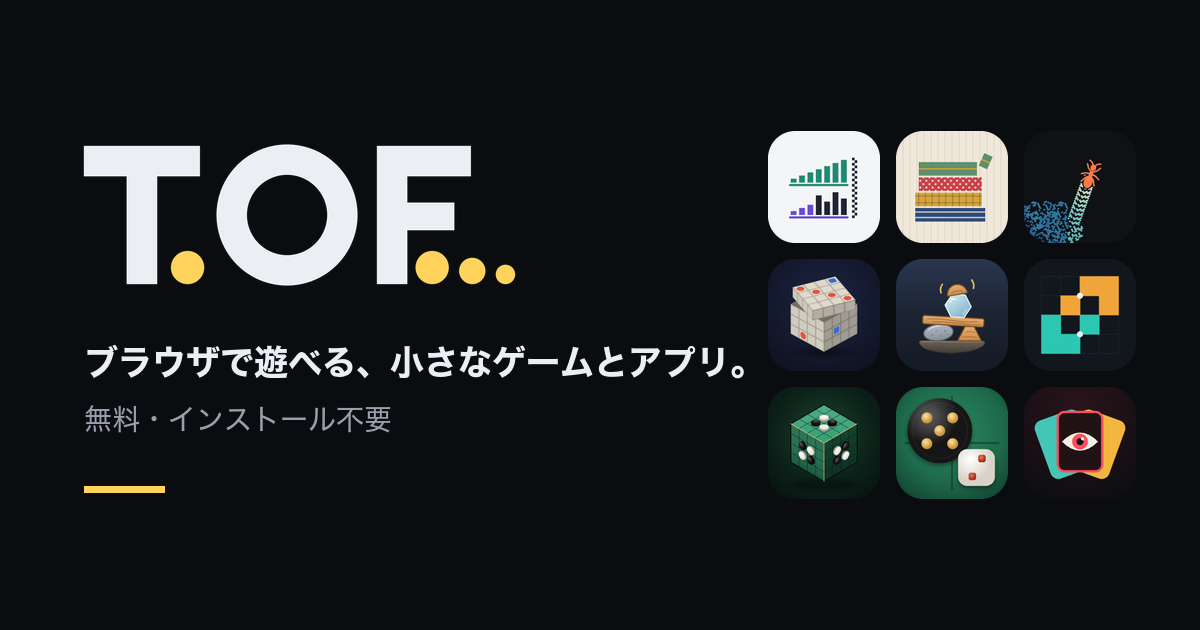
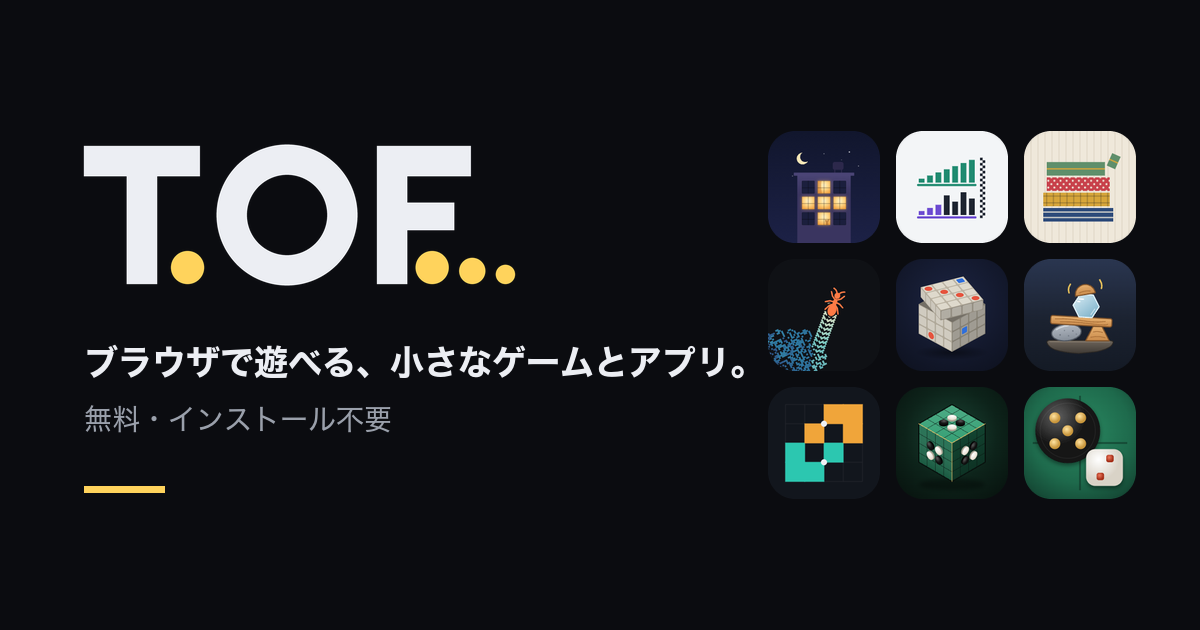
まどあかりをポータルに載せる

Changed region(s): [[0.6167, 0.181, 0.9558, 0.6032], [0.6475, 0.6032, 0.9558, 0.8143]]

diff --git a/apps.js b/apps.js
@@ -13,6 +13,16 @@
 
 window.TOFO_APPS = [
   {
+    id: 'madoakari',
+    name: 'まどあかり',
+    title: '夜の窓をぜんぶ灯す',
+    desc: '夜の建物の窓をタップして明かりをつける。押した窓と上下左右のとなりが一緒に切り替わるので、どこを押すかを考えて、なるべく少ない数で全部の窓を灯す。',
+    category: 'game',
+    tags: ['パズル'],
+    icon: '/madoakari/icons/icon-192.png',
+    color: '#141a33',
+  },
+  {
     id: 'soroekko',
     name: 'そろえっこ',
     title: '2 つの並べ替えで競走',
